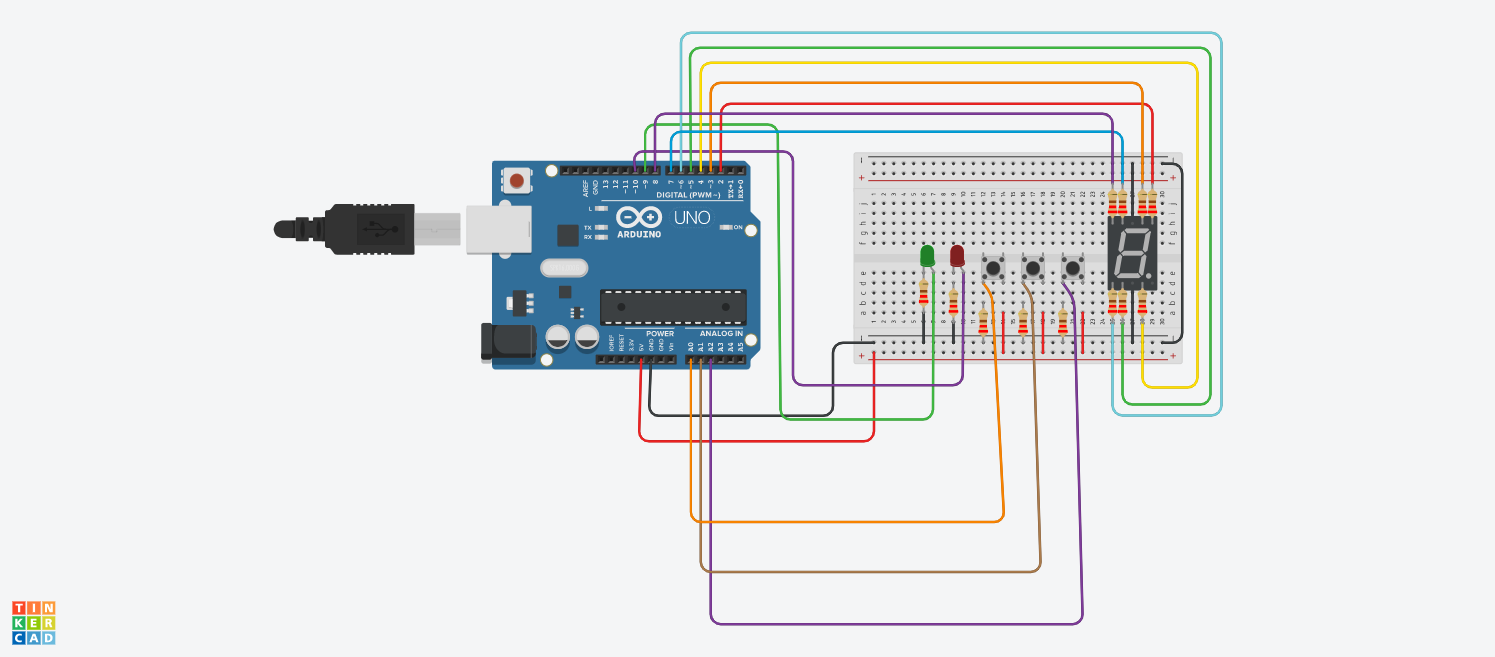
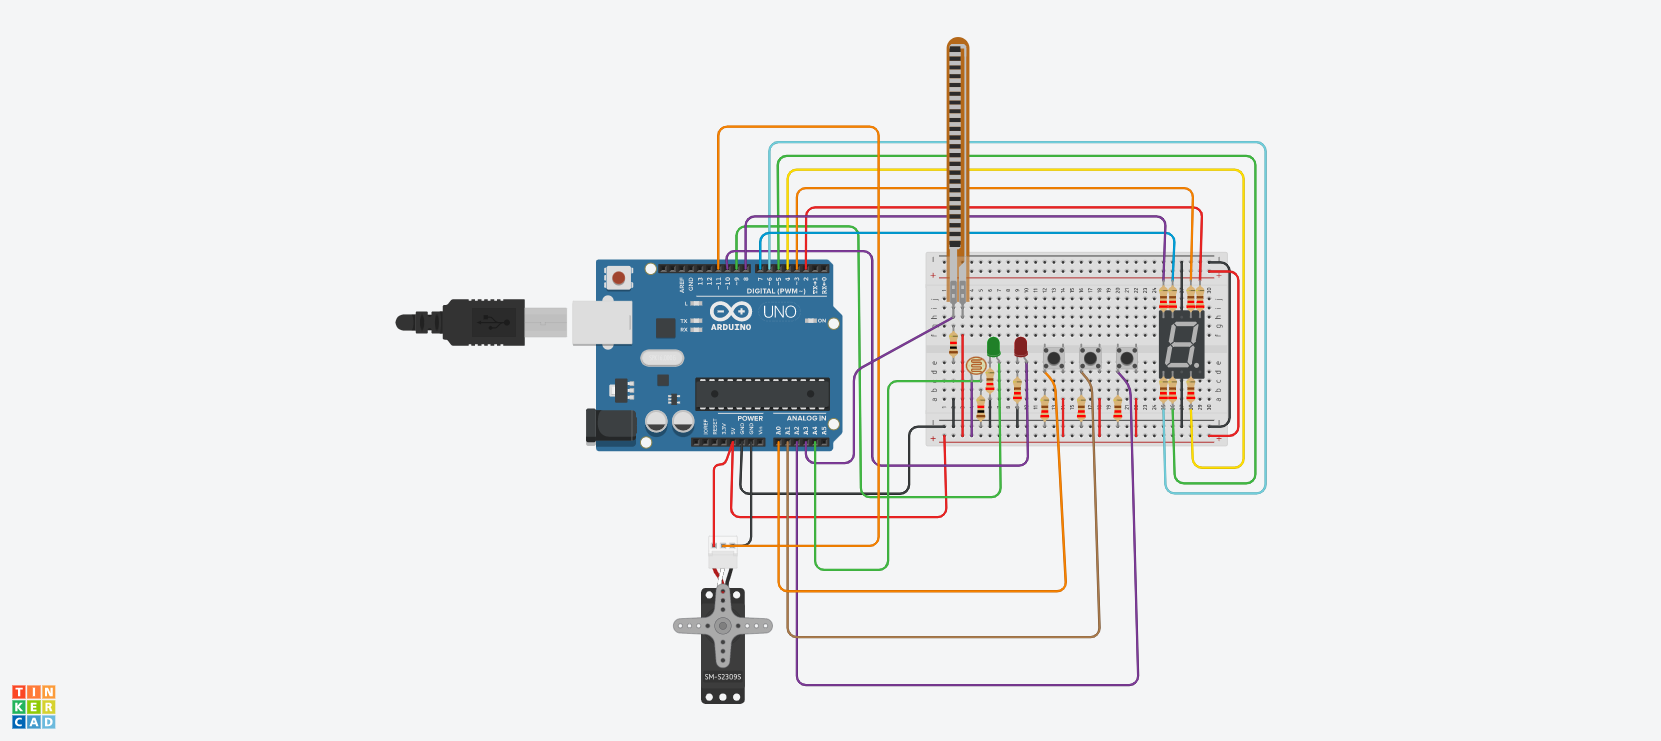
Cambio

Changed region(s): [[0.1846, 0.0304, 0.8308, 0.9741], [0.0, 0.9132, 0.0615, 1.0]]

diff --git a/Montacargas.md b/Montacargas.md
@@ -52,6 +52,14 @@ Requisitos del Proyecto:
 
 ~~~ C++ 
 //C++ code
+//Foto resistencia
+int fotoresistencia = A4;
+int valorFotoresistencia = 0;
+//Sensor Flexion
+const int sensorFlexion = A3;
+//Servo
+#include <Servo.h>
+Servo servoMotor;
 //Botones
 const int botonSubir = A0;
 const int botonParar = A1;
@@ -72,12 +80,15 @@ unsigned long tiempoActual = 0;
 unsigned long tiempoPasado = 0;
 // Display
 const int pinesDisplay[7] = {2,3,4,5,6,7,8};
-
 void setup()
 {
   //Leds como output
   pinMode(ledEnMovimiento, OUTPUT);
   pinMode(ledParado, OUTPUT);
+  //Sensor como 
+  pinMode(sensorFlexion, INPUT);
+  //Servo como output
+  servoMotor.attach(11);
   //Botones como input
   pinMode(botonSubir, INPUT_PULLUP);
   pinMode(botonParar, INPUT_PULLUP);
@@ -96,6 +107,7 @@ void loop()
   motrarPisoActual(pisoActual);
   escribirPisoActual();
   modificarMontacargas();
+  verificarMontacargarEnMovimiento();
 }
 
 void cambioEstadoBotones()
@@ -127,15 +139,32 @@ void cambioEstadoBotones()
 
 void mostrarMovimientoMontacarga()
 {
+  valorFotoresistencia= analogRead(fotoresistencia);
   if(enMovimiento == true)
   {
-    digitalWrite(ledEnMovimiento, HIGH);
-    digitalWrite(ledParado, LOW);
+    if(valorFotoresistencia>256)
+    {
+      digitalWrite(ledEnMovimiento, HIGH);
+      digitalWrite(ledParado, LOW);
+    }
+    else
+    {
+      digitalWrite(ledEnMovimiento, LOW);
+      digitalWrite(ledParado, LOW);
+    }
   }
   else
   {
-    digitalWrite(ledEnMovimiento, LOW);
-    digitalWrite(ledParado, HIGH);
+    if(valorFotoresistencia>256)
+    {
+      digitalWrite(ledEnMovimiento, LOW);
+      digitalWrite(ledParado, HIGH);
+    }
+    else
+    {
+      digitalWrite(ledEnMovimiento, LOW);
+      digitalWrite(ledParado, LOW);
+    }
   }
 }
 
@@ -209,4 +238,16 @@ void modificarMontacargas()
     }
   }
 }
+void verificarMontacargarEnMovimiento()
+{
+  servoMotor.write(0);
+  if(enMovimiento == true)
+  {
+    if(pisoActual>=0 && pisoActual<=9)
+    {
+      servoMotor.write(180);
+    }
+  }
+}
+
 ~~~
